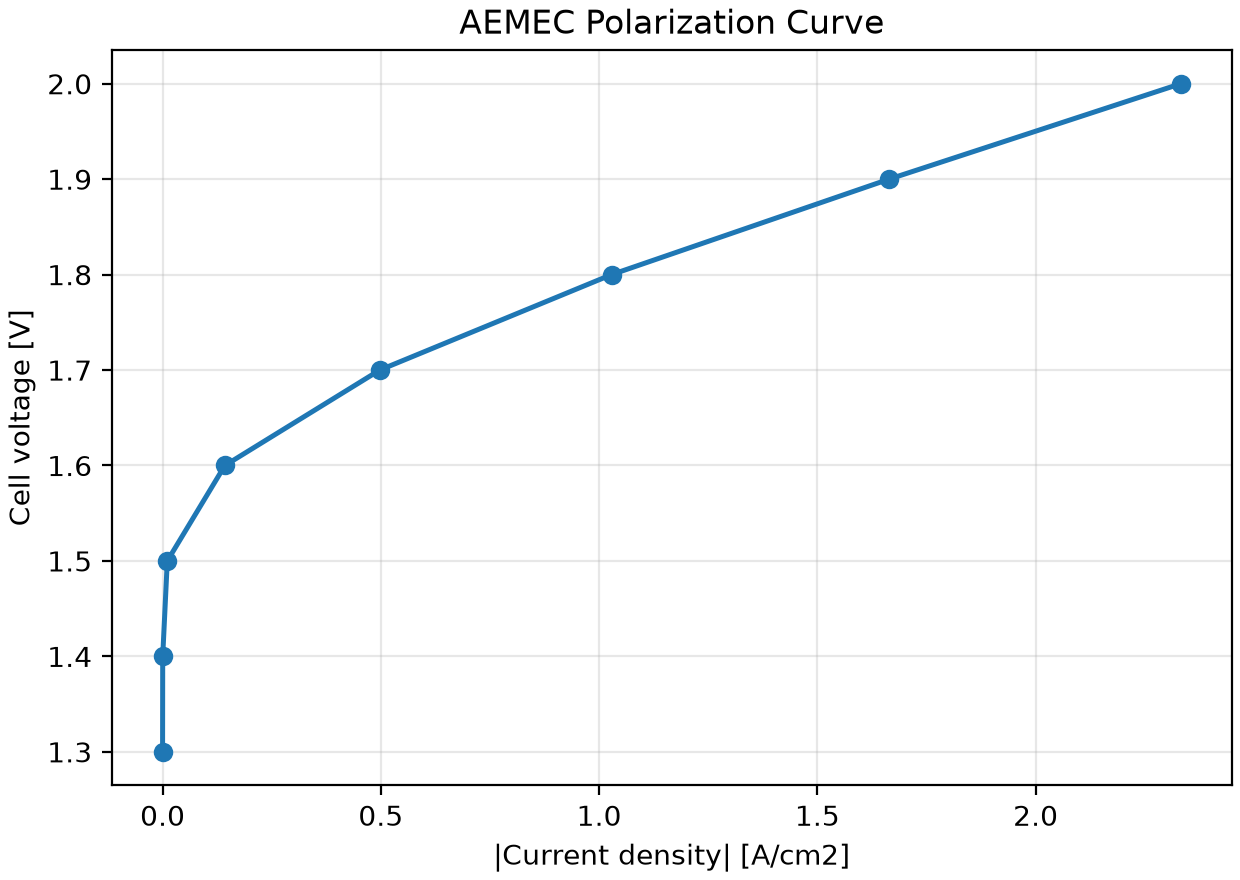
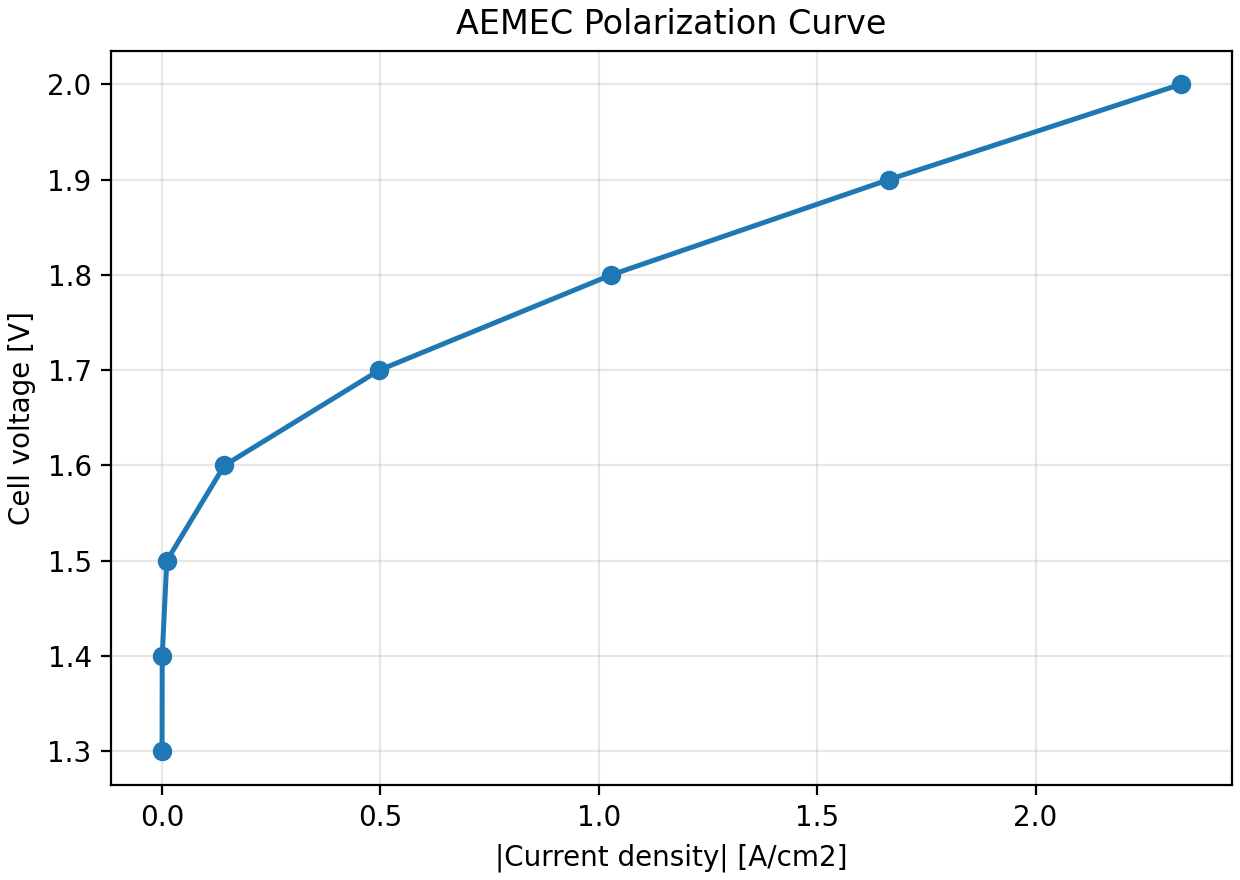
nothing happend

diff --git a/opt/run_optimization.py b/opt/run_optimization.py
@@ -3,3 +3,4 @@
 # 1)cell voltage and 2) gas cross over.
 # In this case, the optimization loop is 
 # Give a membrane thickness, then run the simulation and check the objectives. Run 50 iterations.
+# Plot the pareto front at the end of the optimization.
